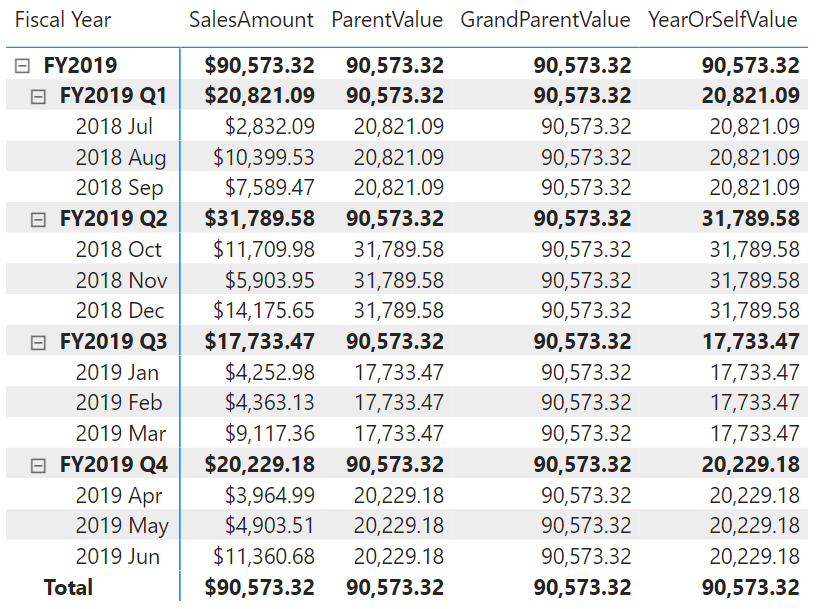
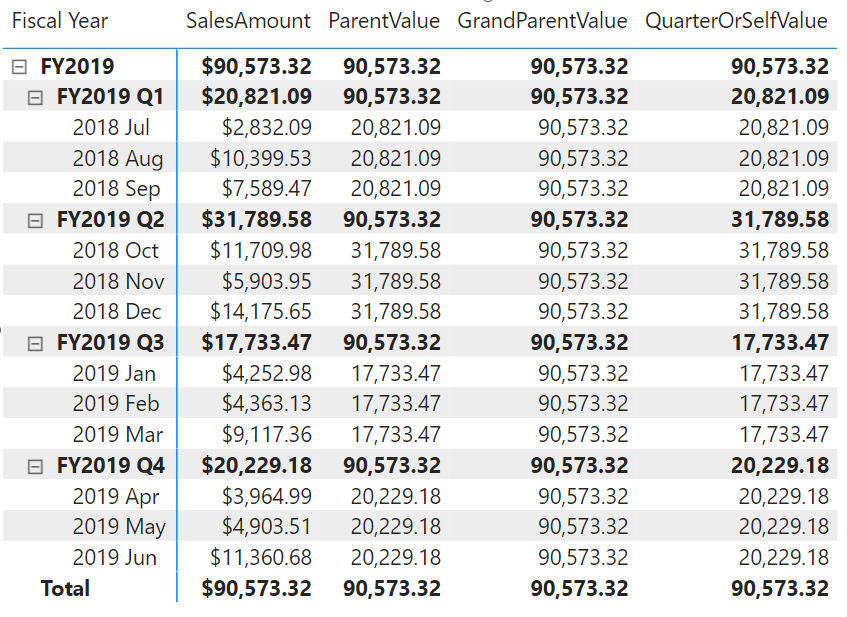
Fix error in COLLAPSE example

Changed region(s): [[0.0, 0.0, 0.9804, 0.9984]]

diff --git a/query-languages/dax/collapse-function-dax.md b/query-languages/dax/collapse-function-dax.md
@@ -60,7 +60,7 @@ Given a table that summarizes the total sales for a hierarchy with levels for to
 ```dax
 ParentValue = COLLAPSE([SalesAmount], ROWS)
 GrandParentValue = COLLAPSE([SalesAmount], ROWS, 2)
-YearOrSelfValue = COLLAPSE([SalesAmount], [Month])
+QuarterOrSelfValue = COLLAPSE([SalesAmount], [Month])
 ```
 
 The screenshot below shows the matrix with the three visual calculations.
